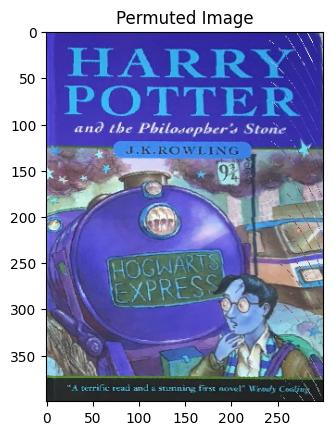
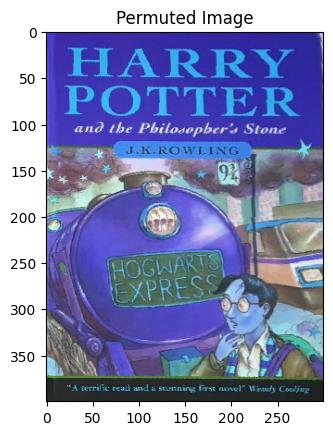
fixing white lines in pictures

diff --git a/main.py b/main.py
@@ -18,9 +18,10 @@ def warpPerspective(img, transform_matrix, output_width, output_height):
             yy = array_x[1][0] / array_x[2][0]
 
             if xx < output_width and yy < output_height:
-                img2[int(xx)][int(yy)] = img[i][j]
+                if xx >= 0 and yy >= 0:
+                    img2[int(xx)][int(yy)] = img[i][j]
 
-    return img2
+    return img2.astype(np.uint8)
 
 
 def grayScaledFilter(img):
